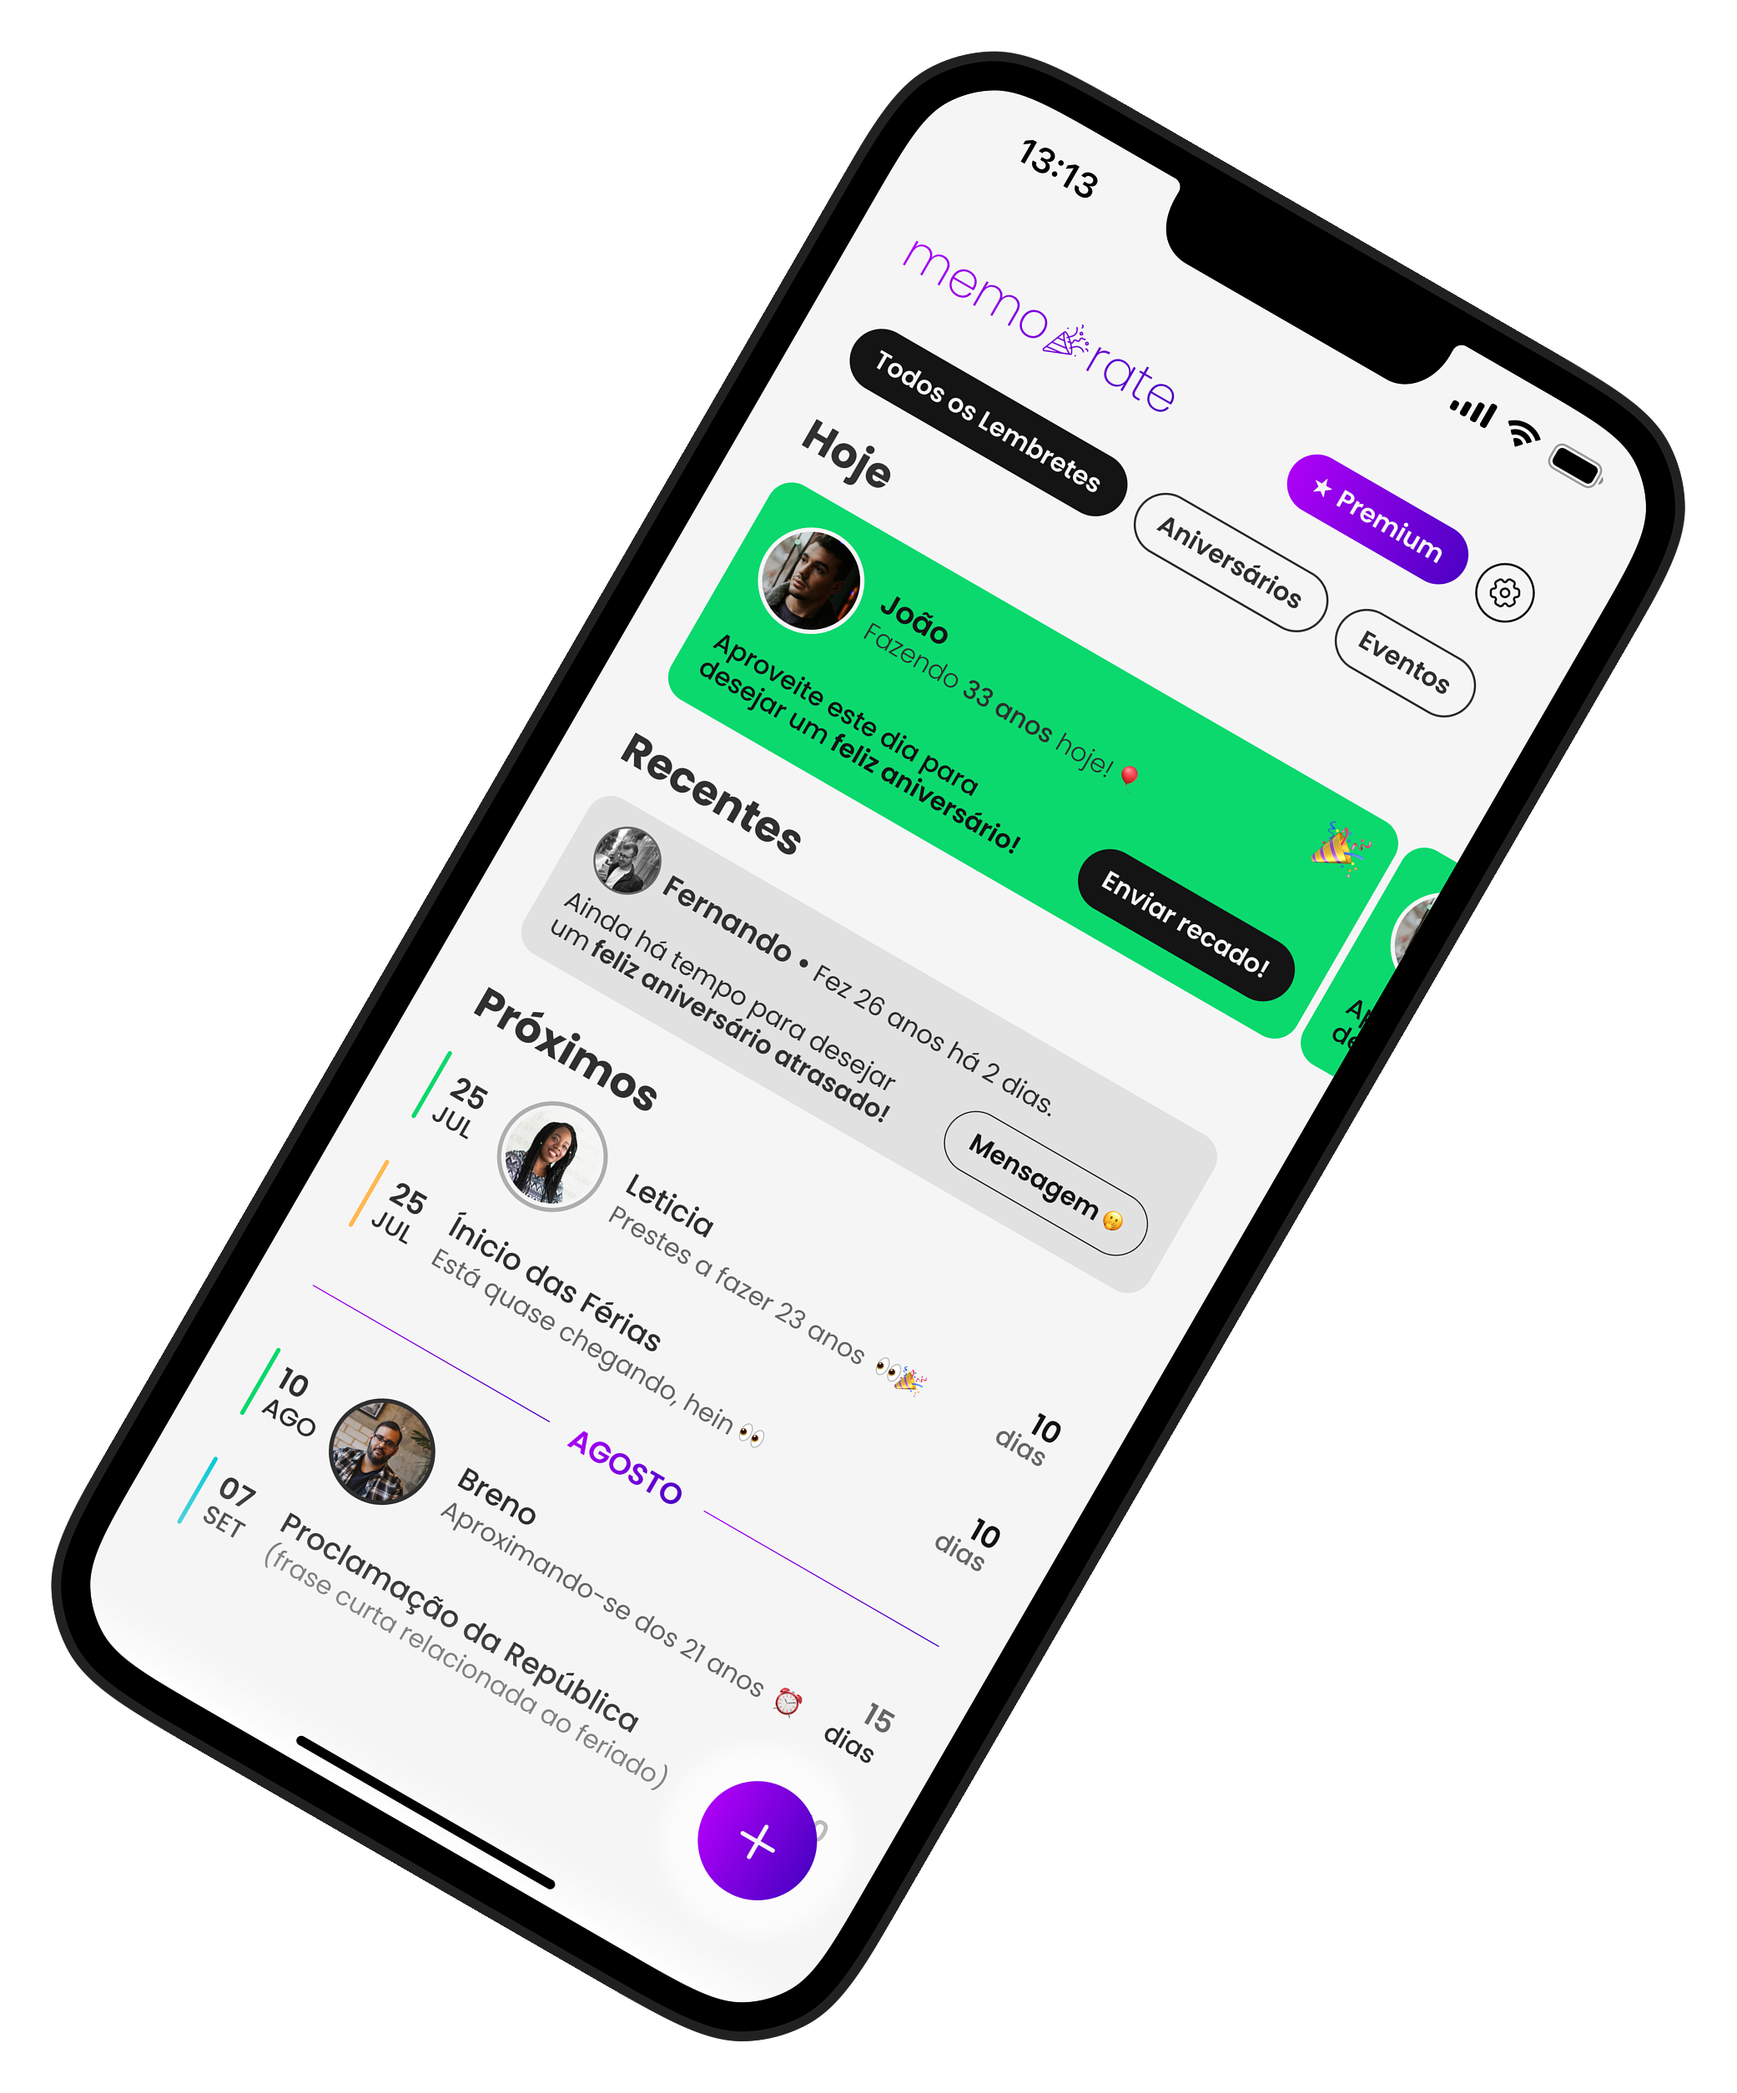
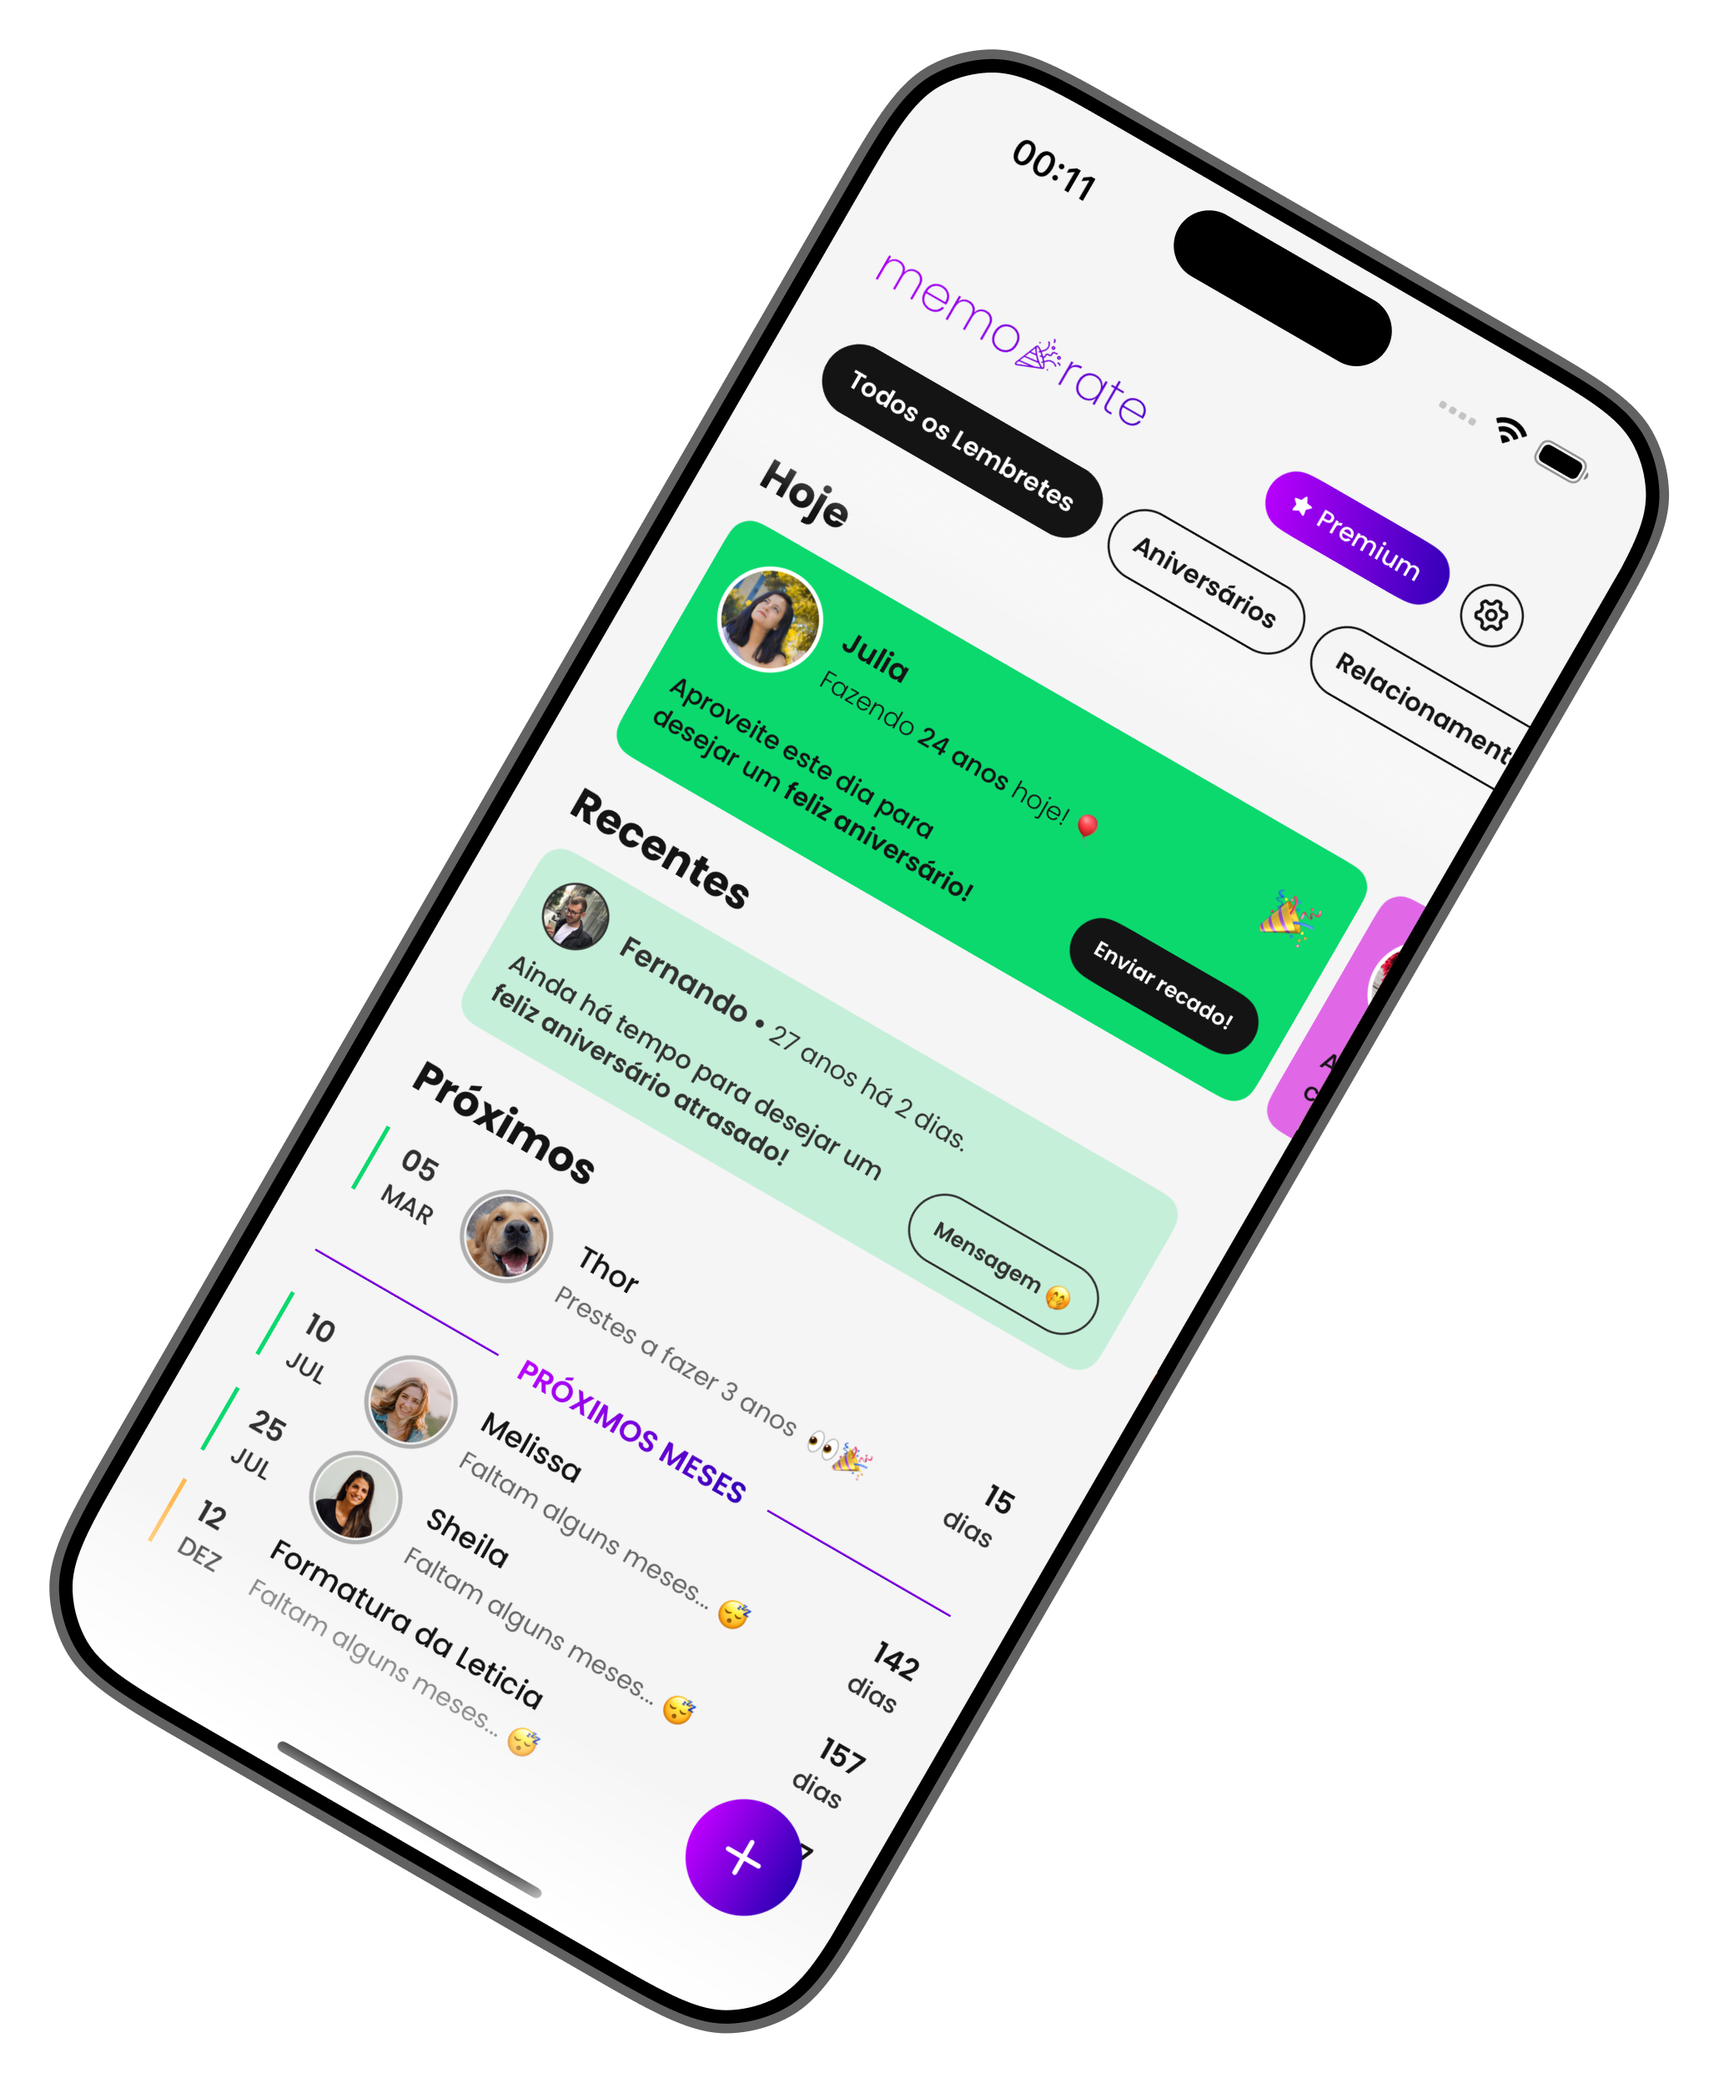
feat: updated mcoks

diff --git a/src/components/notification/notification.tsx b/src/components/notification/notification.tsx
@@ -93,8 +93,8 @@ export function Notification() {
           🥳 Surpresa especial!
         </span>
         <span className="text-xs text-gray-600 leading-4">
-          Hoje é o aniversário de João, mostre que você está presente! Envie uma
-          mensagem pelo app.
+          Hoje é o aniversário de Julia, mostre que você está presente! Envie
+          uma mensagem pelo app.
         </span>
       </div>
     </div>
